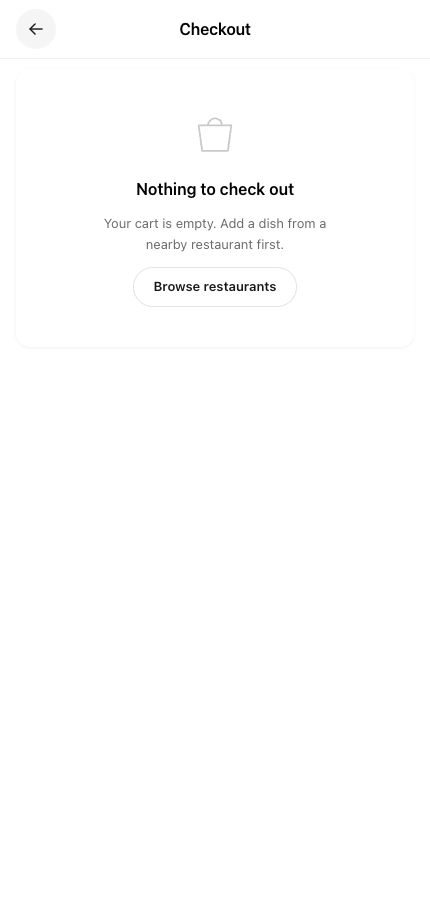
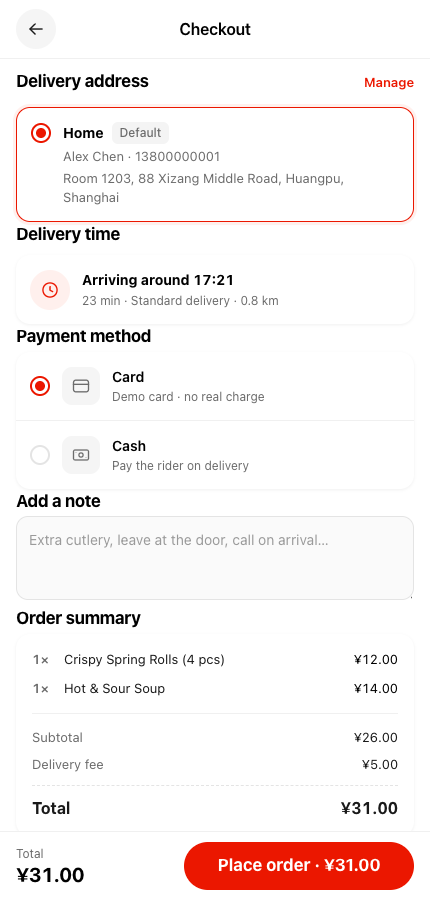
photos fade in instead of flashing the emoji first

diff --git a/server/customer/static/css/customer.css b/server/customer/static/css/customer.css
@@ -533,6 +533,8 @@ body.c-body {
 }
 /* 实拍图铺满缩略图；没有图时 .c-thumb 里的 emoji 照旧居中 */
 .c-thumb .c-photo {
+  opacity: 0;
+  transition: opacity .18s ease;
   /* ⚠ 不要给 z-index：加了会在父级堆叠上下文里盖住菜品行右下角那个“+”，
      结果就是有图的菜点不了加购。这里靠 position:relative + DOM 顺序压住兜底 emoji 就够了。 */
   position: relative;
@@ -541,6 +543,7 @@ body.c-body {
   object-fit: cover;
   display: block;
 }
+.c-thumb .c-photo.is-loaded { opacity: 1; }
 .c-thumb--lg { width: 92px; height: 92px; font-size: 38px; }
 .c-thumb--md { width: 56px; height: 56px; font-size: 26px; border-radius: 10px; }
 .c-thumb--sm { width: 44px; height: 44px; font-size: 20px; border-radius: 9px; }

diff --git a/server/merchant/static/js/merchant.js b/server/merchant/static/js/merchant.js
@@ -171,7 +171,7 @@
       return '<span class="m-dish__emoji m-dish__emoji--photo" aria-hidden="true">' +
         '<span class="m-dish__em">' + esc(emoji || '\ud83c\udf7d\ufe0f') + '</span>' +
         '<img src="' + esc(imageUrl) + '" alt="" loading="lazy" decoding="async" ' +
-        'onerror="this.remove()"></span>';
+        'onload="this.classList.add(\'is-loaded\')" onerror="this.remove()"></span>';
     }
     const hue = hueFor(name || 'dish');
     const bg = 'linear-gradient(135deg,hsl(' + hue + ' 72% 93%),hsl(' +

diff --git a/server/customer/static/js/customer.js b/server/customer/static/js/customer.js
@@ -81,7 +81,8 @@
        不会出现浏览器那种碎图图标。 */
     return '<span class="c-em" aria-hidden="true">' + fallback + '</span>' +
       '<img class="c-photo" src="' + esc(imageUrl) + '" alt="" loading="lazy" ' +
-      'decoding="async" onerror="this.remove()">';
+      'decoding="async" onload="this.classList.add(\'is-loaded\')" ' +
+      'onerror="this.remove()">';
   }
 
   function esc(value) {

diff --git a/server/merchant/static/css/merchant.css b/server/merchant/static/css/merchant.css
@@ -606,7 +606,9 @@
 .m-dish__emoji--photo img {
   position: relative; z-index: 1;
   width: 100%; height: 100%; object-fit: cover; display: block;
+  opacity: 0; transition: opacity .18s ease;
 }
+.m-dish__emoji--photo img.is-loaded { opacity: 1; }
 
 .m-dish__text { min-width: 0; }
 .m-dish__text .m-cell-title,
